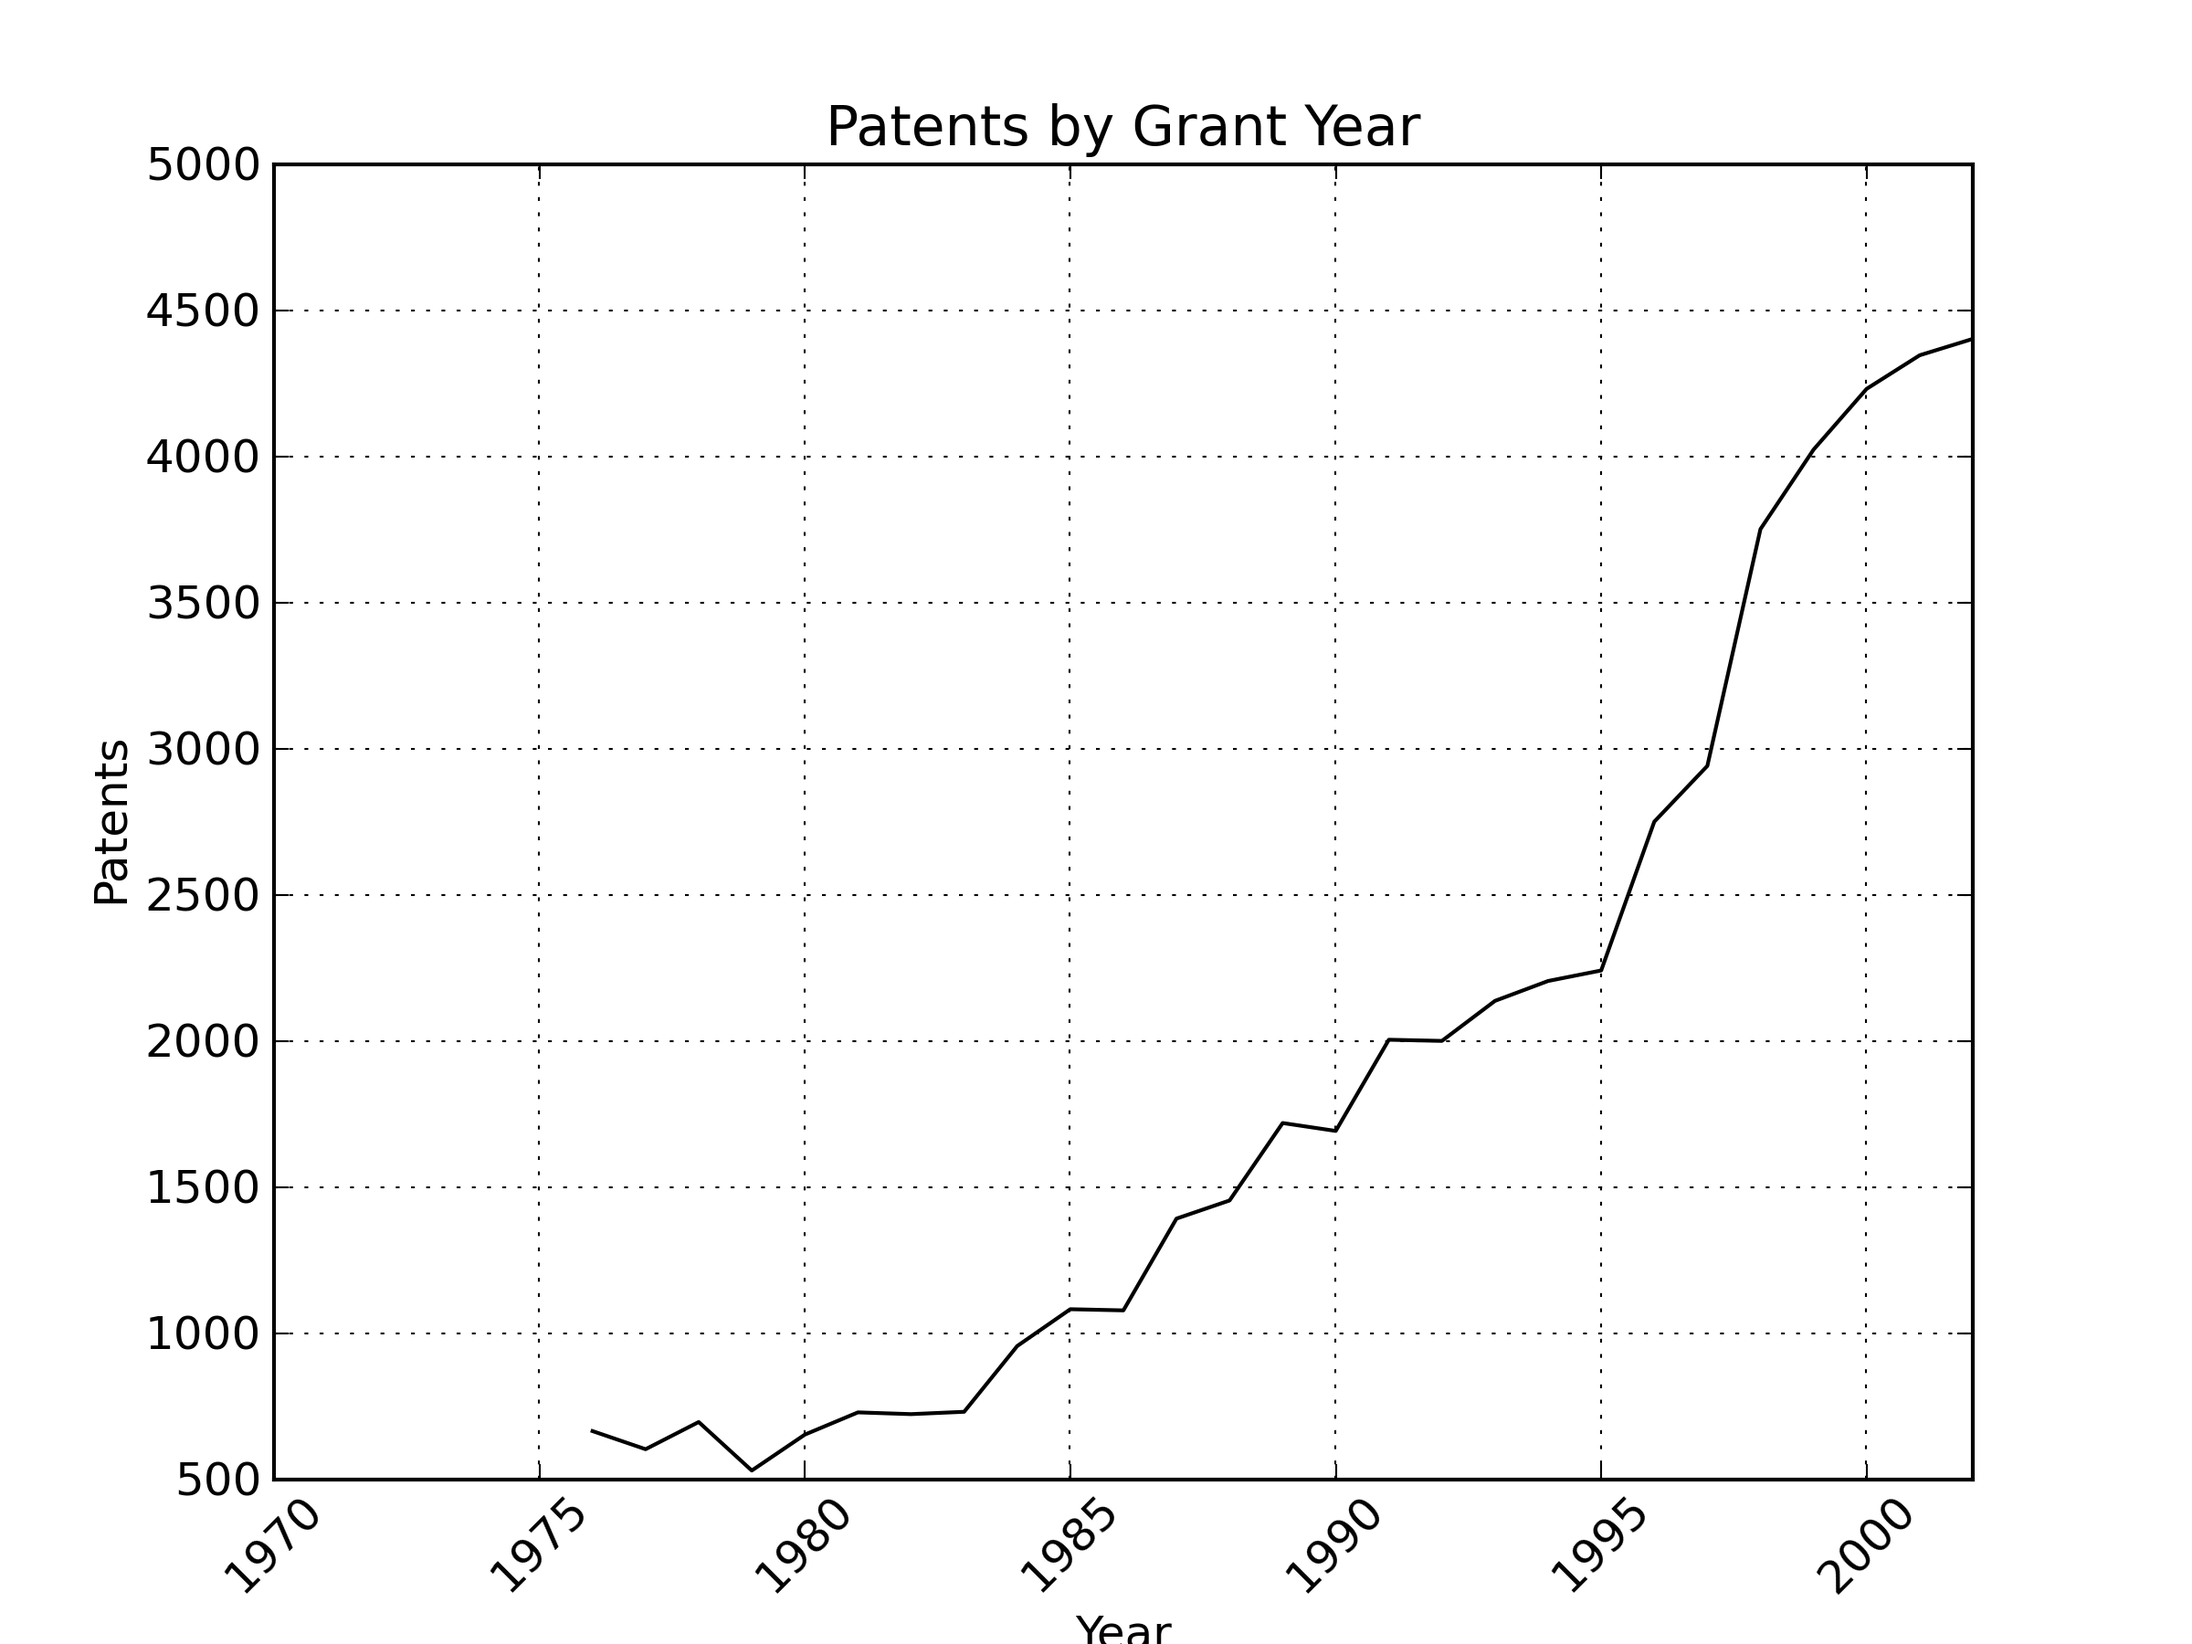
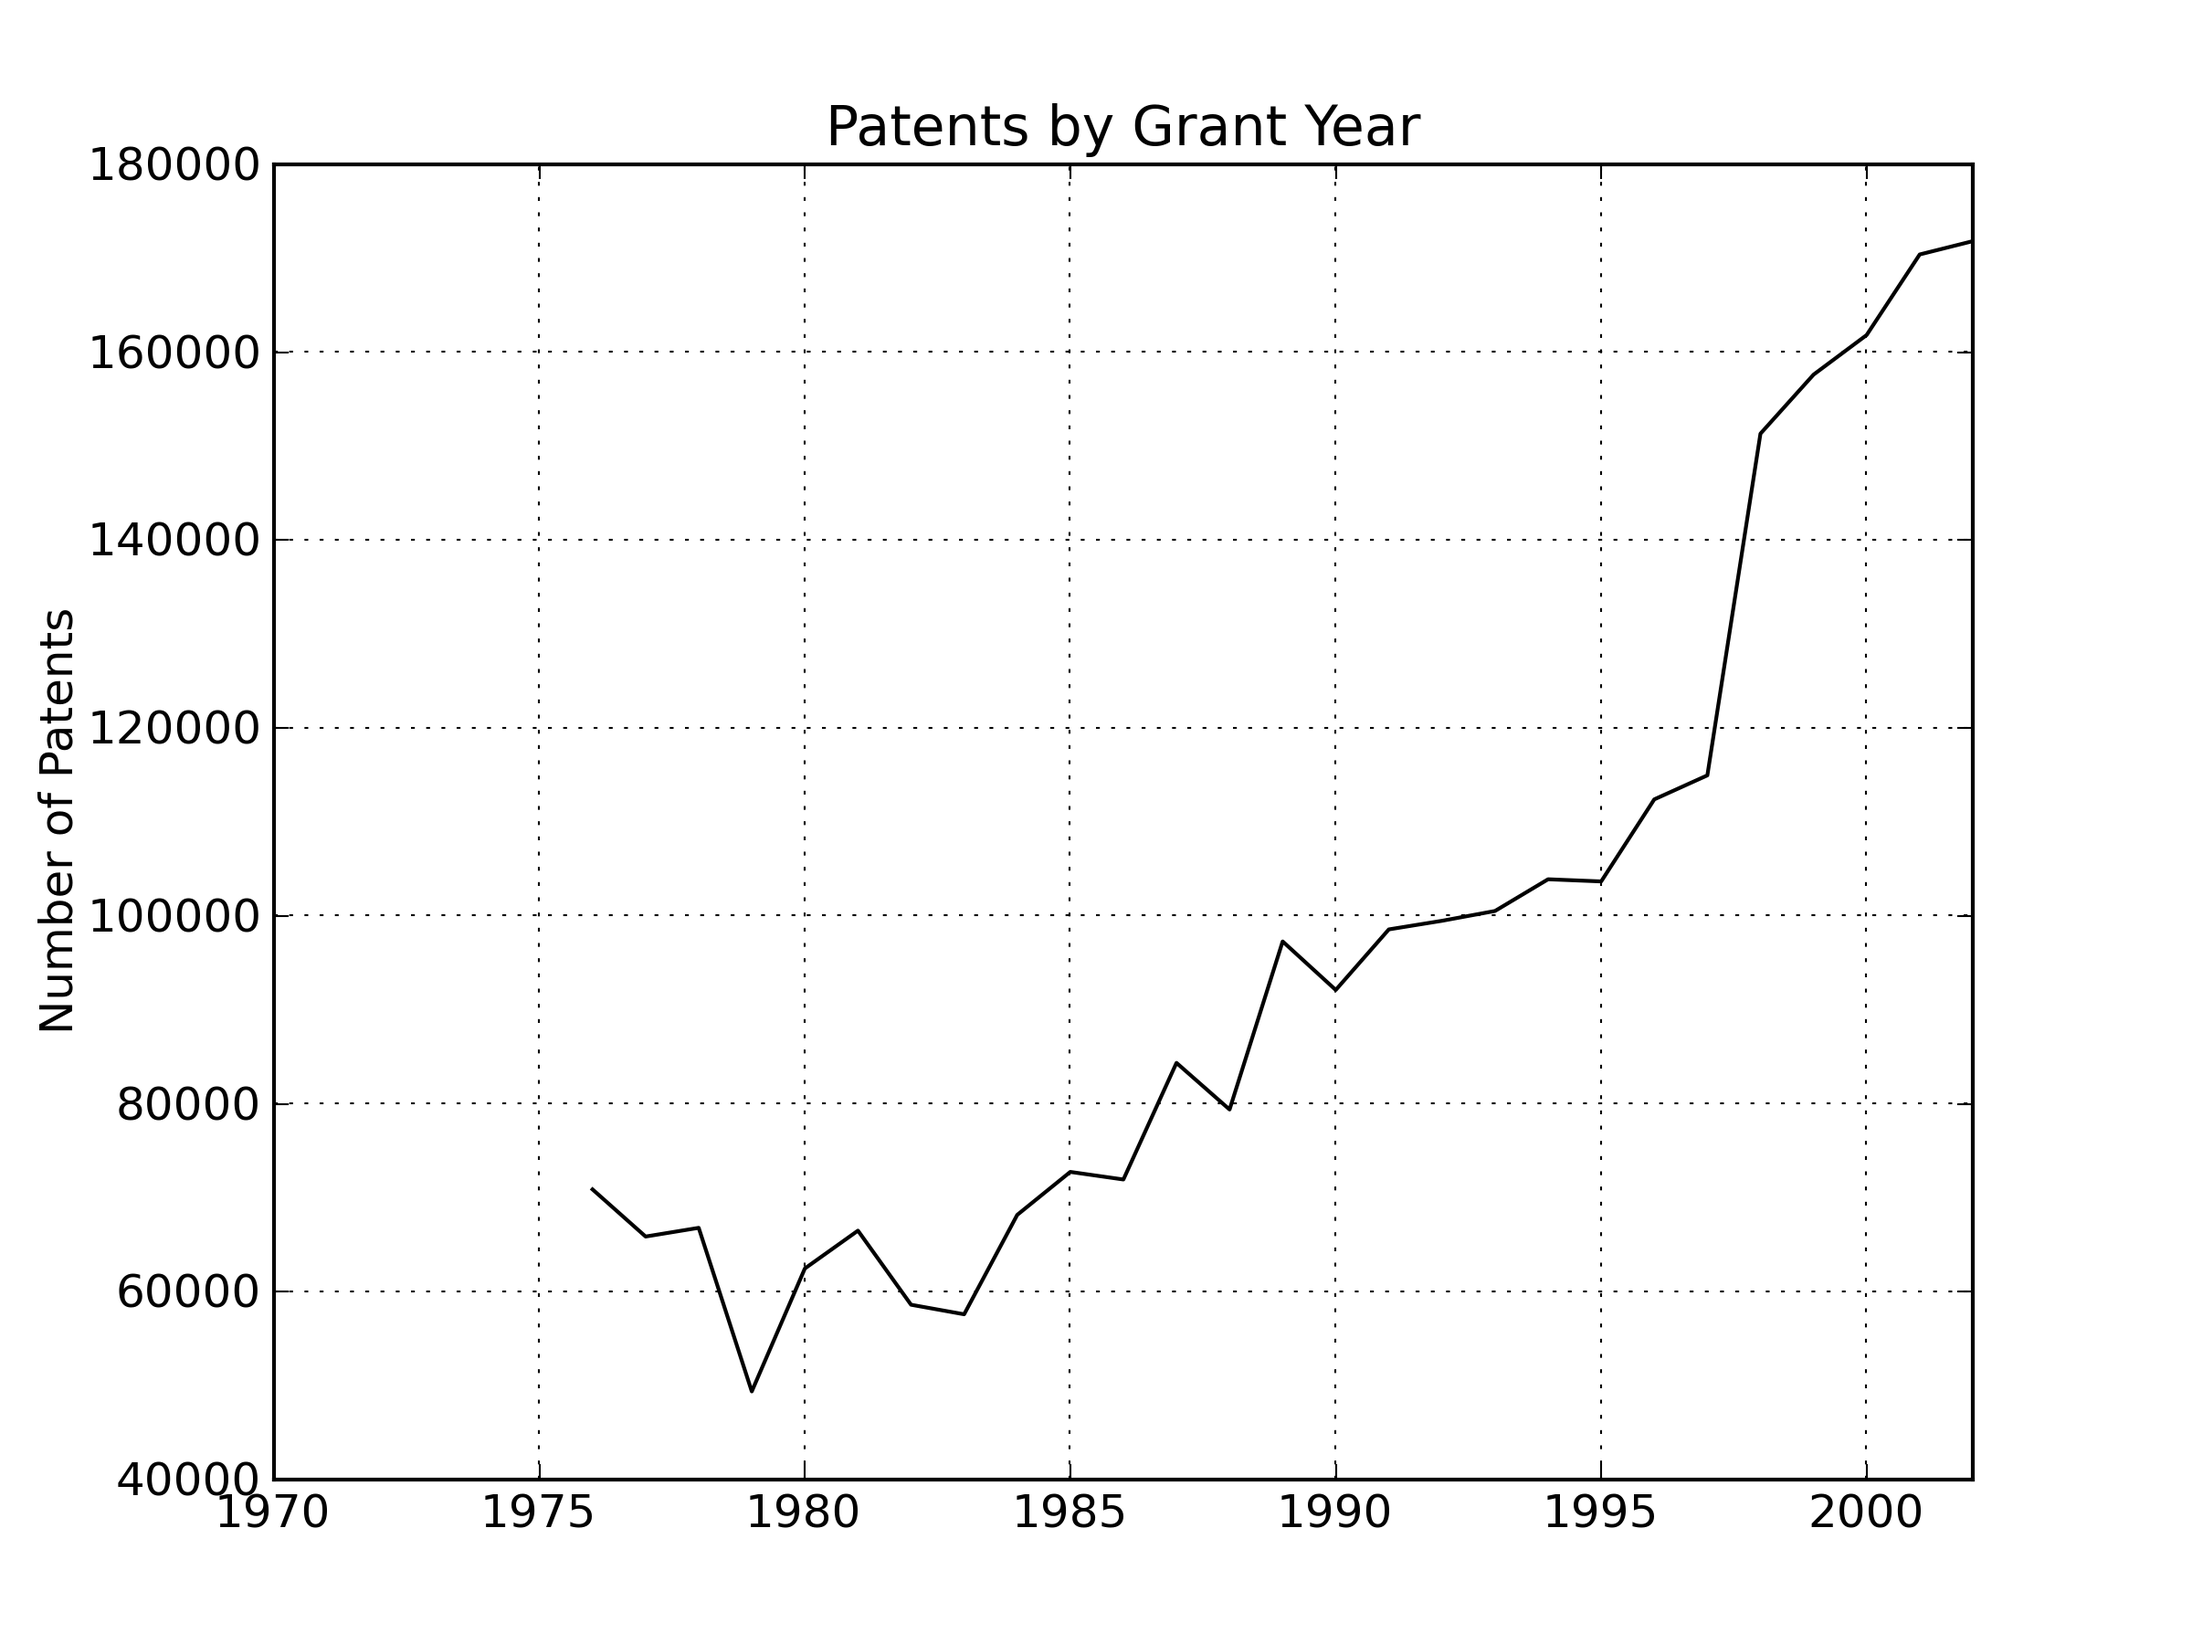
Picture formatting

diff --git a/scripts/by_country_animate.py b/scripts/by_country_animate.py
@@ -1,0 +1,57 @@
+from __future__ import division
+
+import matplotlib
+
+matplotlib.use("AGG")
+"""
+Files available from:
+https://sites.google.com/site/patentdataproject/Home/downloads
+
+Directly:
+http://www.nber.org/~jbessen/patassg.dat.zip
+http://www.nber.org/~jbessen/pat76_06_assgasc.zip
+"""
+
+import pandas as pd
+import matplotlib.pyplot as plt
+
+# Change path to local version.
+s = pd.HDFStore('/Volumes/HDD/Users/tom/DataStorage/Patents/patents.h5')
+df = s['utility']
+df = df[df.duplicated('patent')]  # Drop the dupes for multiple assignees.
+cat = df['subcat']
+t = df[(cat == 22.0) | (cat == 24.0) | (cat == 25.0)]
+
+
+def _get_ind(s, n=10):
+    """Helper to get the top n countries.
+    """
+    s.sort()
+    return s[-n:].index
+
+by_ctry = df.groupby('country')['patent'].count()
+t_by_ctry = t.groupby('country')['patent'].count()
+
+
+idx = _get_ind(by_ctry)
+t_idx = _get_ind(t_by_ctry)
+
+comb = pd.DataFrame([by_ctry[idx], t_by_ctry[t_idx]]).T
+comb.columns = ['All', 'Tech']
+
+miss_all = comb[pd.isnull(comb['All'])].index
+for ctry in miss_all:
+    comb.ix[ctry]['All'] = df.groupby('country')['patent'].count().ix[ctry]
+
+miss_tech = comb[pd.isnull(comb['Tech'])].index
+for ctry in miss_tech:
+    comb.ix[ctry]['Tech'] = t.groupby('country')['patent'].count().ix[ctry]
+
+# This would be fun to animate. Composition may change though.  Needn't though.
+ax = comb.plot(kind='barh', stacked=True)
+ax.set_xlabel('Patents Granted')
+plt.savefig('../resources/by_country.png', dpi=300)
+normed = comb.div(comb.sum(1), axis=0)
+ax2 = normed.plot(kind='barh', stacked=True)
+ax2.set_xlabel('Proportion of Tech Patents')
+plt.savefig('../resources/by_country_normalized.png', dpi=300)

diff --git a/scripts/summary_stats.py b/scripts/summary_stats.py
@@ -64,13 +64,13 @@ def by_year(df, year_col='appyear', adj=False, style='k-', ax=None):
         # the .mean() of hjtwt does nothing.  Should all be the same within a year
         fig = (gr.count()['patent'] * gr.mean()['hjtwt']).plot(
             rot=45, style=style, ax=ax)
-        fig.set_xlabel('Year')
-        fig.set_ylabel('Patents')
+        fig.set_xlabel('')
+        fig.set_ylabel('Number of Patents')
     else:
         gr = df.groupby(df[year_col])
-        fig = gr['patent'].count().plot(rot=45, style=style, ax=ax)
-        fig.set_xlabel('Year')
-        fig.set_ylabel('Patents')
+        fig = gr['patent'].count().plot(style=style, ax=ax)
+        fig.set_xlabel('')
+        fig.set_ylabel('Number of Patents')
     ax = fig.axes
     return fig, ax
 
@@ -150,8 +150,8 @@ t_idx = _get_ind(t_by_ctry)
 
 comb = pd.DataFrame([by_ctry[idx], t_by_ctry[t_idx]]).T
 comb.columns = ['All', 'Tech']
-miss_all = comb[pd.isnull(comb['All'])].index
 
+miss_all = comb[pd.isnull(comb['All'])].index
 for ctry in miss_all:
     comb.ix[ctry]['All'] = df.groupby('country')['patent'].count().ix[ctry]
 
@@ -159,6 +159,7 @@ miss_tech = comb[pd.isnull(comb['Tech'])].index
 for ctry in miss_tech:
     comb.ix[ctry]['Tech'] = t.groupby('country')['patent'].count().ix[ctry]
 
+# This would be fun to animate. Composition may change though.  Needn't though.
 ax = comb.plot(kind='barh', stacked=True)
 ax.set_xlabel('Patents Granted')
 plt.savefig('../resources/by_country.png', dpi=300)
